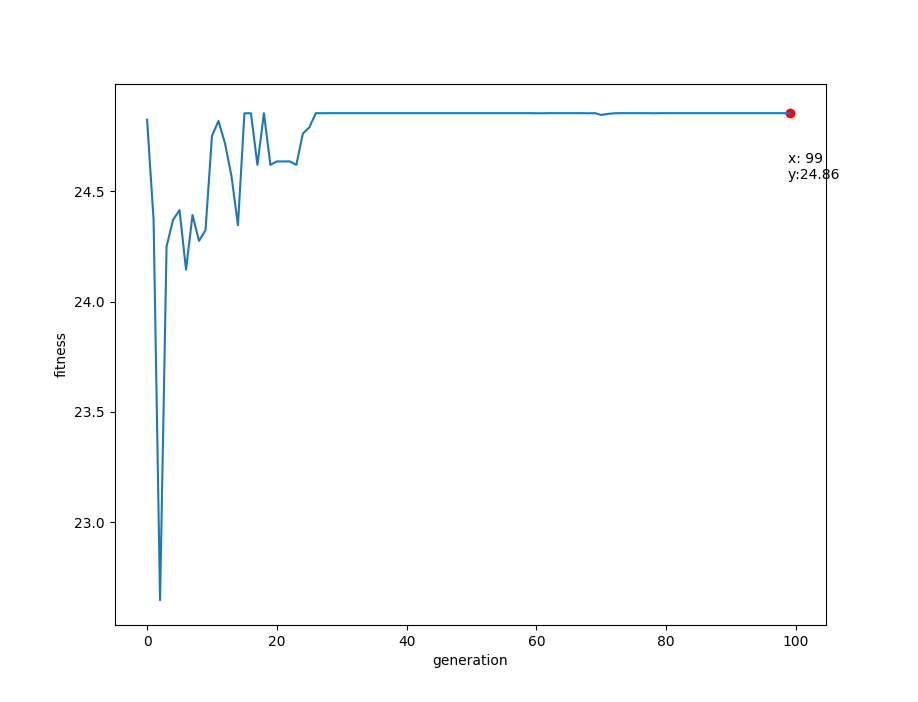
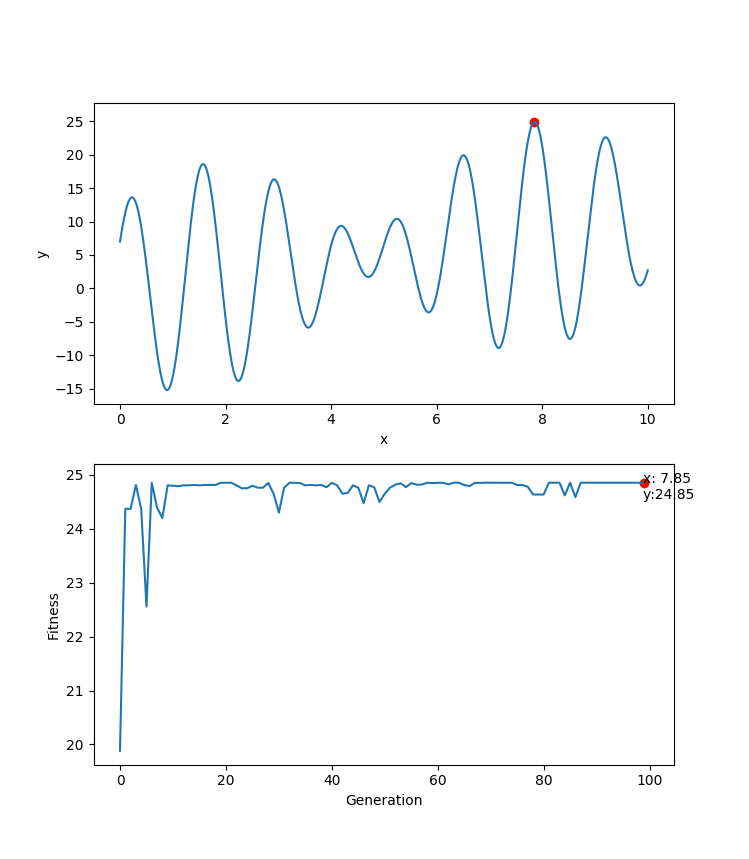
Add original function curve.

diff --git a/examples/ex01/best_fit.py b/examples/ex01/best_fit.py
@@ -1,103 +1,103 @@
 best_fit = [
-    (0, 24.825407580207514),
-    (1, 24.370956398048353),
-    (2, 22.64543653033958),
-    (3, 24.250196041592574),
-    (4, 24.370956398048353),
-    (5, 24.415337278302346),
-    (6, 24.144926674413597),
-    (7, 24.393409782429735),
-    (8, 24.275898292448225),
-    (9, 24.32447479244542),
-    (10, 24.7525171810843),
-    (11, 24.819943734362976),
-    (12, 24.718572440817653),
-    (13, 24.570783424573733),
-    (14, 24.347184919693653),
-    (15, 24.854722424085537),
-    (16, 24.854722424085537),
-    (17, 24.620698187109237),
-    (18, 24.854722424085537),
-    (19, 24.620698187109237),
-    (20, 24.636276125823112),
-    (21, 24.636276125823112),
-    (22, 24.636276125823112),
-    (23, 24.620698187109237),
-    (24, 24.762762007368558),
-    (25, 24.790913427569503),
-    (26, 24.855306004714947),
-    (27, 24.8547885307975),
-    (28, 24.855283955426152),
-    (29, 24.855306004714947),
-    (30, 24.855283955426152),
-    (31, 24.855283955426152),
-    (32, 24.855283955426152),
-    (33, 24.855306004714947),
-    (34, 24.855283955426152),
-    (35, 24.855283955426152),
-    (36, 24.855306004714947),
-    (37, 24.855283955426152),
-    (38, 24.855283955426152),
-    (39, 24.855283955426152),
-    (40, 24.855283955426152),
-    (41, 24.855283955426152),
-    (42, 24.855283955426152),
-    (43, 24.855306004714947),
-    (44, 24.855306004714947),
-    (45, 24.855283955426152),
-    (46, 24.855283955426152),
-    (47, 24.855306004714947),
-    (48, 24.855306004714947),
-    (49, 24.855306004714947),
-    (50, 24.855306004714947),
-    (51, 24.855306004714947),
-    (52, 24.855306004714947),
-    (53, 24.855306004714947),
-    (54, 24.855306004714947),
-    (55, 24.855306004714947),
-    (56, 24.855306004714947),
-    (57, 24.855306004714947),
-    (58, 24.855306004714947),
-    (59, 24.855306004714947),
-    (60, 24.8547885307975),
-    (61, 24.8547885307975),
-    (62, 24.855306004714947),
-    (63, 24.855306004714947),
-    (64, 24.855306004714947),
-    (65, 24.855306004714947),
-    (66, 24.855306004714947),
-    (67, 24.855306004714947),
-    (68, 24.854722424085537),
-    (69, 24.855306004714947),
-    (70, 24.847082926453286),
-    (71, 24.851981169179787),
-    (72, 24.854722424085537),
-    (73, 24.855306004714947),
-    (74, 24.855306004714947),
-    (75, 24.855306004714947),
-    (76, 24.855306004714947),
-    (77, 24.855306004714947),
-    (78, 24.8547885307975),
-    (79, 24.855306004714947),
-    (80, 24.855306004714947),
-    (81, 24.855306004714947),
-    (82, 24.855306004714947),
-    (83, 24.855306004714947),
-    (84, 24.855306004714947),
-    (85, 24.855306004714947),
-    (86, 24.855306004714947),
-    (87, 24.855306004714947),
-    (88, 24.855306004714947),
-    (89, 24.855306004714947),
-    (90, 24.855306004714947),
-    (91, 24.855306004714947),
-    (92, 24.855306004714947),
-    (93, 24.855306004714947),
-    (94, 24.855306004714947),
-    (95, 24.855306004714947),
-    (96, 24.855306004714947),
-    (97, 24.855306004714947),
-    (98, 24.855306004714947),
-    (99, 24.855306004714947),
+    (0, [6.507141985105603], 19.881317625461776),
+    (1, [7.908680258820657], 24.37013189454432),
+    (2, [7.908680258820657], 24.37013189454432),
+    (3, [7.8415333903064335], 24.813493897999866),
+    (4, [7.908680258820657], 24.37013189454432),
+    (5, [9.19301672567452], 22.557675291193533),
+    (6, [7.861067024783298], 24.851981169179787),
+    (7, [7.806128677817116], 24.393409782429735),
+    (8, [7.796361860578684], 24.19911905255966),
+    (9, [7.84031253815163], 24.80650543779501),
+    (10, [7.839091685996825], 24.79897854471899),
+    (11, [7.837870833842022], 24.790913427569503),
+    (12, [7.84031253815163], 24.80650543779501),
+    (13, [7.84031253815163], 24.80650543779501),
+    (14, [7.8415333903064335], 24.813493897999866),
+    (15, [7.84031253815163], 24.80650543779501),
+    (16, [7.8415333903064335], 24.813493897999866),
+    (17, [7.8415333903064335], 24.813493897999866),
+    (18, [7.8415333903064335], 24.813493897999866),
+    (19, [7.85252105969967], 24.852134938049172),
+    (20, [7.8549627640092785], 24.8547885307975),
+    (21, [7.857404468318887], 24.855283955426152),
+    (22, [7.84031253815163], 24.80650543779501),
+    (23, [7.880600659260163], 24.7525171810843),
+    (24, [7.880600659260163], 24.7525171810843),
+    (25, [7.874496398486143], 24.798380872207762),
+    (26, [7.87937980710536], 24.762762007368558),
+    (27, [7.87937980710536], 24.762762007368558),
+    (28, [7.861067024783298], 24.851981169179787),
+    (29, [7.890367476498596], 24.6513229652951),
+    (30, [7.8012452691979], 24.30044802897503),
+    (31, [7.87937980710536], 24.762762007368558),
+    (32, [7.859846172628495], 24.85362146971059),
+    (33, [7.859846172628495], 24.85362146971059),
+    (34, [7.850079355390062], 24.847323205244805),
+    (35, [7.84031253815163], 24.80650543779501),
+    (36, [7.8415333903064335], 24.813493897999866),
+    (37, [7.84031253815163], 24.80650543779501),
+    (38, [7.8415333903064335], 24.813493897999866),
+    (39, [7.878158954950555], 24.77247114262975),
+    (40, [7.859846172628495], 24.85362146971059),
+    (41, [7.84031253815163], 24.80650543779501),
+    (42, [7.890367476498596], 24.6513229652951),
+    (43, [7.889146624343792], 24.665838166971533),
+    (44, [7.84031253815163], 24.80650543779501),
+    (45, [7.87937980710536], 24.762762007368558),
+    (46, [7.811012086436333], 24.477957667683885),
+    (47, [7.84031253815163], 24.80650543779501),
+    (48, [7.878158954950555], 24.77247114262975),
+    (49, [7.812232938591136], 24.49777492953207),
+    (50, [7.890367476498596], 24.6513229652951),
+    (51, [7.87937980710536], 24.762762007368558),
+    (52, [7.870833842021731], 24.819457420225586),
+    (53, [7.848858503235258], 24.844108123250468),
+    (54, [7.835429129532414], 24.77316944533269),
+    (55, [7.850079355390062], 24.847323205244805),
+    (56, [7.842754242461238], 24.819943734362976),
+    (57, [7.842754242461238], 24.819943734362976),
+    (58, [7.85862532047369], 24.854722424085537),
+    (59, [7.850079355390062], 24.847323205244805),
+    (60, [7.859846172628495], 24.85362146971059),
+    (61, [7.853741911854474], 24.853731510383817),
+    (62, [7.869612989866927], 24.825407580207514),
+    (63, [7.856183616164082], 24.855306004714947),
+    (64, [7.857404468318887], 24.855283955426152),
+    (65, [7.8415333903064335], 24.813493897999866),
+    (66, [7.875717250640947], 24.790280910305828),
+    (67, [7.85252105969967], 24.852134938049172),
+    (68, [7.85252105969967], 24.852134938049172),
+    (69, [7.8549627640092785], 24.8547885307975),
+    (70, [7.857404468318887], 24.855283955426152),
+    (71, [7.857404468318887], 24.855283955426152),
+    (72, [7.853741911854474], 24.853731510383817),
+    (73, [7.853741911854474], 24.853731510383817),
+    (74, [7.85862532047369], 24.854722424085537),
+    (75, [7.872054694176535], 24.81296940910337),
+    (76, [7.872054694176535], 24.81296940910337),
+    (77, [7.8769381027957515], 24.781644224987218),
+    (78, [7.8915883286534], 24.636276125823112),
+    (79, [7.8915883286534], 24.636276125823112),
+    (80, [7.8915883286534], 24.636276125823112),
+    (81, [7.856183616164082], 24.855306004714947),
+    (82, [7.856183616164082], 24.855306004714947),
+    (83, [7.856183616164082], 24.855306004714947),
+    (84, [7.892809180808204], 24.620698187109237),
+    (85, [7.8549627640092785], 24.8547885307975),
+    (86, [7.895250885117812], 24.587951254029928),
+    (87, [7.856183616164082], 24.855306004714947),
+    (88, [7.857404468318887], 24.855283955426152),
+    (89, [7.857404468318887], 24.855283955426152),
+    (90, [7.857404468318887], 24.855283955426152),
+    (91, [7.85862532047369], 24.854722424085537),
+    (92, [7.857404468318887], 24.855283955426152),
+    (93, [7.857404468318887], 24.855283955426152),
+    (94, [7.857404468318887], 24.855283955426152),
+    (95, [7.857404468318887], 24.855283955426152),
+    (96, [7.857404468318887], 24.855283955426152),
+    (97, [7.8549627640092785], 24.8547885307975),
+    (98, [7.8549627640092785], 24.8547885307975),
+    (99, [7.853741911854474], 24.853731510383817),
 ]
 

diff --git a/examples/ex01/plot_envolution_curve.py b/examples/ex01/plot_envolution_curve.py
@@ -1,22 +1,35 @@
 #!/usr/bin/env python
 # -*- coding: utf-8 -*-
-
+from math import sin, cos
+import numpy as np
+import matplotlib.pyplot as plt
 from best_fit import best_fit
 
-import matplotlib.pyplot as plt
-
-steps, fits = list(zip(*best_fit))
+steps, variants, fits = list(zip(*best_fit))
+best_step, best_v, best_f = steps[-1], variants[-1][0], fits[-1]
 
 fig = plt.figure()
-ax = fig.add_subplot(111)
+
+ax = fig.add_subplot(211)
+f = lambda x: x + 10*sin(5*x) + 7*cos(4*x)
+x = np.linspace(0, 10, 1000)
+y = [f(i) for i in x]
+ax.plot(x, y)
+ax.scatter([best_v], [best_f], facecolor='r')
+ax.set_xlabel('x')
+ax.set_ylabel('y')
+
+ax = fig.add_subplot(212)
 ax.plot(steps, fits)
-ax.set_xlabel('generation')
-ax.set_ylabel('fitness')
+ax.set_xlabel('Generation')
+ax.set_ylabel('Fitness')
 
 # Plot the maximum.
-x, y = steps[-1], fits[-1]
-ax.scatter([x], [y], facecolor='r')
-ax.annotate(s='x: {}\ny:{:.2f}'.format(x, y), xy=(x, y), xytext=(x-0.3, y-0.3))
+ax.scatter([best_step], [best_f], facecolor='r')
+ax.annotate(s='x: {:.2f}\ny:{:.2f}'.format(best_v, best_f),
+                                           xy=(best_step, best_f),
+                                           xytext=(best_step-0.3, best_f-0.3))
+
 
 plt.show()
 

diff --git a/examples/ex01/ex01.py b/examples/ex01/ex01.py
@@ -44,9 +44,17 @@ def fitness(indv):
 @engine.analysis_register
 class ConsoleOutputAnalysis(OnTheFlyAnalysis):
     interval = 1
+
     def register_step(self, ng, population, engine):
         best_indv = population.best_indv(engine.fitness)
         msg = 'Generation: {}, best fitness: {:.3f}'.format(ng, engine.fitness(best_indv))
+        engine.logger.info(msg)
+
+    def finalize(self, population, engine):
+        best_indv = population.best_indv(engine.fitness)
+        x = best_indv.variants
+        y = engine.fitness(best_indv)
+        msg = 'Optimal solution: ({}, {})'.format(x, y)
         engine.logger.info(msg)
 
 if '__main__' == __name__:
